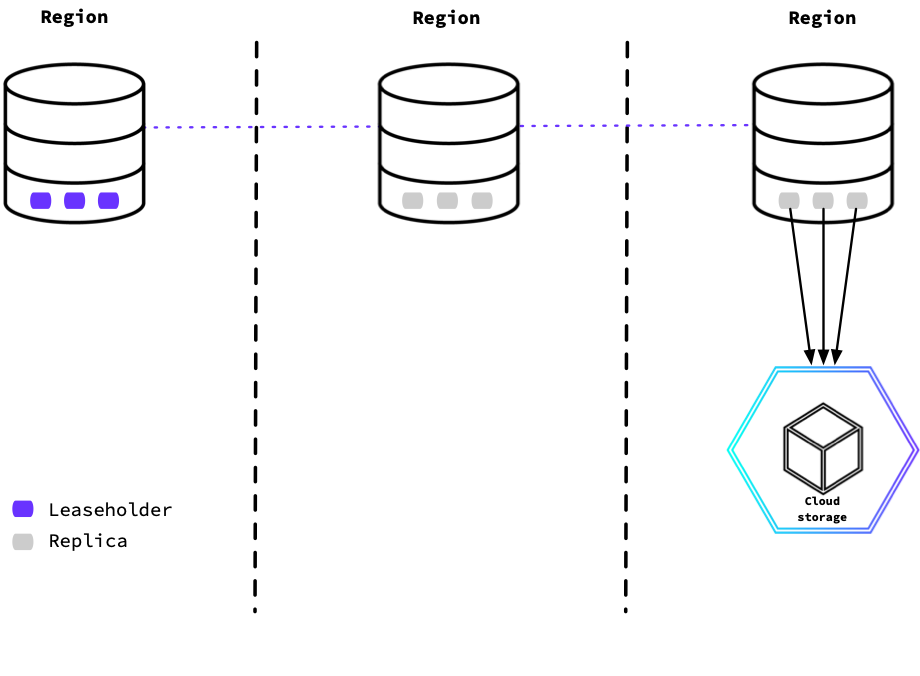
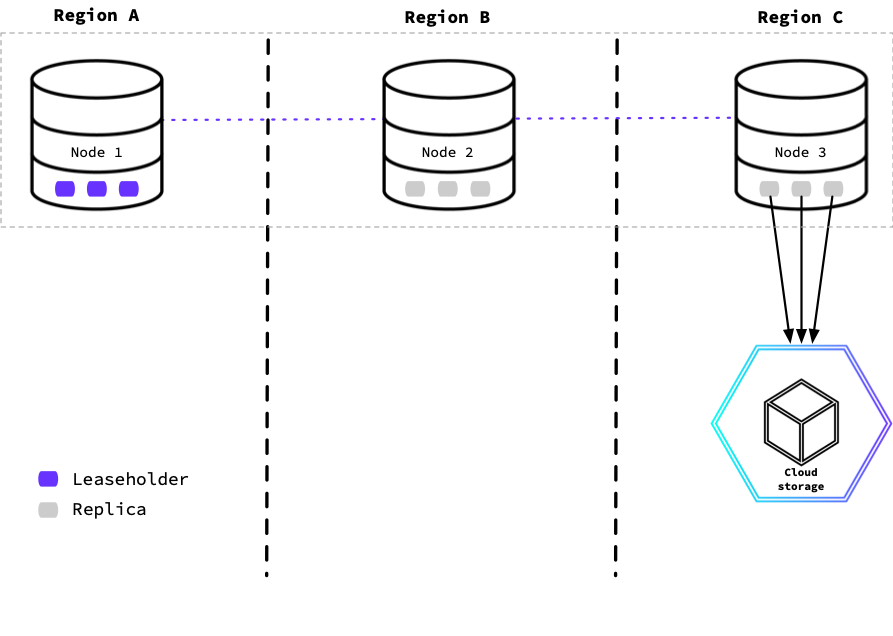
Image update

diff --git a/v23.1/execution-locality-backups.md b/v23.1/execution-locality-backups.md
@@ -53,11 +53,13 @@ This section outlines some possible use cases for `EXECUTION LOCALITY` option.
 
 In certain cases, a cluster could be restricted by network rules across regions (or another locality requirement) for security purposes. This means that only nodes within the same region as the backup [cloud storage](use-cloud-storage.html) location can access the storage bucket. With `EXECUTION LOCALITY`, you can set up the backup to pin execution of the job to only the nodes with access to the bucket.
 
-The following diagram shows a CockroachDB cluster where each of the nodes can communicate with each other through a specific port, but any other network traffic is blocked. Leaseholders in regions that do not match the cloud storage cannot communicate with the storage to [export backup data](backup-architecture.html#export-phase).
+The following diagram shows a CockroachDB cluster where each of the nodes can communicate with each other through a specific port, but any other network traffic between regions is blocked. Leaseholders in regions that do not match the cloud storage region (Node 2) cannot access the storage to [export backup data](backup-architecture.html#export-phase). 
+
+Instead, Node 3's locality matches a backup job created with `EXECUTION LOCALITY`. Leaseholders and replicas within that locality designation holding the row data to back up will begin reading and exporting to cloud storage.
 
 <img src="{{ 'images/v23.1/network-restriction.png' | relative_url }}" alt="Using execution locality when there is a network restriction between locality requirements" style="border:0px solid #eee;max-width:100%" />
 
-To execute the backup from only the region with access to cloud storage, you specify locality filters that a node must match in order to take part in the backup job's execution.
+To execute the backup from only the region with access to cloud storage, you can specify [locality filters](cockroach-start.html#locality) that a node must match to take part in the backup job's execution.
 
 For example, you can pin the execution of the backup job to `us-west-1`: 
 
@@ -66,15 +68,20 @@ For example, you can pin the execution of the backup job to `us-west-1`:
 BACKUP DATABASE {database} INTO 'external://backup_storage_uswest' WITH EXECUTION LOCALITY = 'region=us-west-1';
 ~~~
 
-See the [`BACKUP`](backup.html) page for further detail on parameters and options. 
+See the [`BACKUP`](backup.html) page for further detail on other parameters and options. 
 
 ### Create a non-primary region for backup jobs
 
-When your [multi-region](multiregion-overview.html) cluster is running a frequent full backup and incremental backup schedule, it is necessary to balance the [backup schedule](create-schedule-for-backup.html) as well as the impact backup jobs may have on a cluster running data-intensive applications. One solution is to use node locality to section off part of the cluster, which will run backups, to minimize the impact running jobs have one the cluster.
+When your [multi-region](multiregion-overview.html) cluster is running a frequent full backup and incremental backup schedule, it is necessary to balance the [backup schedule](create-schedule-for-backup.html) as well as the impact backup jobs may have on a cluster running data-intensive applications. One solution is to use node locality to section off part of the cluster, which will run backups, to minimize the impact running jobs have on the cluster.
 
 This diagram shows a CockroachDB cluster in three regions. The node used to run the backup job was configured with [non-voting replicas](architecture/replication-layer.html#non-voting-replicas) to provide low-latency reads. The node(s) in this region will complete the backup job coordination and data export to cloud storage.
 
 <img src="{{ 'images/v23.1/background-work.png' | relative_url }}" alt="Using execution locality to create a non-primary region for backup jobs" style="border:0px solid #eee;max-width:100%" />
+
+For detail on configuring a cluster as per the example, see:
+
+- The [`--locality`](cockroach-start.html#locality) flag to specify the locality tiers that describe the location of a node.
+- The `num_voters` and `voter_constraints` variables on the [Configure Replication Zones](configure-replication-zones.html#num_voters) page to configure non-voting replicas via zone configurations.
 
 With nodes in a specific region containing non-voting replicas, you can define the locality requirement for the nodes when creating the backup job:
 
@@ -82,11 +89,6 @@ With nodes in a specific region containing non-voting replicas, you can define t
 ~~~ sql
 BACKUP DATABASE {database} INTO 'external://backup_storage' WITH EXECUTION LOCALITY = 'region={region},dc={datacenter}';
 ~~~
-
-For detail on configuring a cluster as per the example, see:
-
-- The [`--locality`](cockroach-start.html#locality) flag to specify the locality tiers that describe the location of a node.
-- The `num_voters` and `voter_constraints` variables on the [Configure Replication Zones](configure-replication-zones.html#num_voters) page to configure non-voting replicas via zone configurations.
 
 ## See also
 

diff --git a/_includes/v23.1/backups/backup-options-for-schedules.md b/_includes/v23.1/backups/backup-options-for-schedules.md
@@ -3,6 +3,6 @@
 `revision_history`<a name="with-revision-history"></a>           | [`BOOL`](bool.html) / None                     | Create a backup with full [revision history](take-backups-with-revision-history-and-restore-from-a-point-in-time.html), which records every change made to the cluster within the garbage collection period leading up to and including the given timestamp.<br><br>You can specify a backup with revision history without any value e.g., `WITH revision_history`. Or, you can explicitly define `WITH revision_history = 'true' / 'false'`. The `revision_history` option defaults to `true` when used with [`BACKUP`](backup.html) or `CREATE SCHEDULE FOR BACKUP`. A value is **required** when using `ALTER BACKUP SCHEDULE` to {% if page.name == "alter-backup-schedule.md" %} [apply different options to scheduled backups](#apply-different-options-to-scheduled-backups). {% else %} [alter a backup schedule](alter-backup-schedule.html). {% endif %}
 `encryption_passphrase`<a name="with-encryption-passphrase"></a> | [`STRING`](string.html) | The passphrase used to [encrypt the files](take-and-restore-encrypted-backups.html) (`BACKUP` manifest and data files) that the `BACKUP` statement generates. This same passphrase is needed to decrypt the file when it is used to [restore](take-and-restore-encrypted-backups.html) and to list the contents of the backup when using [`SHOW BACKUP`](show-backup.html). There is no practical limit on the length of the passphrase.
 `detached`<a name="detached"></a>                           | [`BOOL`](bool.html) / None                   | **Note:** Backups running on a schedule have the `detached` option applied implicitly. Therefore, you cannot modify this option for scheduled backups. <br><br>When a backup runs in `detached` mode, it will execute asynchronously. The job ID will be returned after the backup [job creation](backup-architecture.html#job-creation-phase) completes. Note that with `detached` specified, further job information and the job completion status will not be returned. For more on the differences between the returned job data, see the [example](backup.html#run-a-backup-asynchronously). To check on the job status, use the [`SHOW JOBS`](show-jobs.html) statement.
-<span class="version-tag">New in v23.1:</span> `EXECUTION LOCALITY` | Key-value pairs | Restricts the execution of the backup to nodes that match the defined locality filter requirements, e.g., `WITH EXECUTION LOCALITY = 'region=us-west-1a,cloud=aws'`. <br><br>See [Restrict nodes executing the backup job by locality](backup.html#restrict-nodes-executing-a-backup-job-by-locality) for usage and reference detail.
+<span class="version-tag">New in v23.1:</span> `EXECUTION LOCALITY` | Key-value pairs | Restricts the execution of the backup to nodes that match the defined locality filter requirements, e.g., `WITH EXECUTION LOCALITY = 'region=us-west-1a,cloud=aws'`. <br><br>See [Execution Locality Backups](execution-locality-backups.html) for usage and reference detail.
 `kms`                                                            | [`STRING`](string.html) |  The [key management service (KMS) URI](take-and-restore-encrypted-backups.html#uri-formats) (or a [comma-separated list of URIs](take-and-restore-encrypted-backups.html#take-a-backup-with-multi-region-encryption)) used to encrypt the files (`BACKUP` manifest and data files) that the `BACKUP` statement generates. This same KMS URI is needed to decrypt the file when it is used to [restore](take-and-restore-encrypted-backups.html#restore-from-an-encrypted-amazon-s3-backup) and to list the contents of the backup when using [`SHOW BACKUP`](show-backup.html). <br/><br/>AWS KMS, Azure KMS, and Google Cloud KMS are supported.
 `incremental_location`<a name="incr-location"></a> | [`STRING`](string.html) | Create an incremental backup in a different location than the default incremental backup location. <br><br>`WITH incremental_location = 'explicit_incrementals_URI'`<br><br>See [Incremental backups with explicitly specified destinations](take-full-and-incremental-backups.html#incremental-backups-with-explicitly-specified-destinations) for usage.

diff --git a/_includes/v23.1/backups/backup-options.md b/_includes/v23.1/backups/backup-options.md
@@ -3,6 +3,6 @@
 `revision_history`<a name="with-revision-history"></a>           | [`BOOL`](bool.html) / None                     | Create a backup with full [revision history](take-backups-with-revision-history-and-restore-from-a-point-in-time.html), which records every change made to the cluster within the garbage collection period leading up to and including the given timestamp.<br><br>You can specify a backup with revision history without any value e.g., `WITH revision_history`. Or, you can explicitly define `WITH revision_history = 'true' / 'false'`. `revision_history` defaults to `true` when used with `BACKUP` or `CREATE SCHEDULE FOR BACKUP`. A value is **required** when using [`ALTER BACKUP SCHEDULE`](alter-backup-schedule.html).
 `encryption_passphrase`<a name="with-encryption-passphrase"></a> | [`STRING`](string.html) | The passphrase used to [encrypt the files](take-and-restore-encrypted-backups.html) (`BACKUP` manifest and data files) that the `BACKUP` statement generates. This same passphrase is needed to decrypt the file when it is used to [restore](take-and-restore-encrypted-backups.html) and to list the contents of the backup when using [`SHOW BACKUP`](show-backup.html). There is no practical limit on the length of the passphrase.
 `detached`<a name="detached"></a>                           | [`BOOL`](bool.html) / None                   |  When a backup runs in `detached` mode, it will execute asynchronously. The job ID will be returned after the backup [job creation](backup-architecture.html#job-creation-phase) completes. Note that with `detached` specified, further job information and the job completion status will not be returned. For more on the differences between the returned job data, see the [example](backup.html#run-a-backup-asynchronously). To check on the job status, use the [`SHOW JOBS`](show-jobs.html) statement. Backups running on a [schedule](create-schedule-for-backup.html) have the `detached` option applied implicitly.<br><br>To run a backup within a [transaction](transactions.html), use the `detached` option.
-<span class="version-tag">New in v23.1:</span> `EXECUTION LOCALITY` | Key-value pairs | Restricts the execution of the backup to nodes that match the defined locality filter requirements, e.g., `WITH EXECUTION LOCALITY = 'region=us-west-1a,cloud=aws'`. <br><br>See [Restrict nodes executing the backup job by locality](backup.html#restrict-nodes-executing-a-backup-job-by-locality) for usage and reference detail.
+<span class="version-tag">New in v23.1:</span> `EXECUTION LOCALITY` | Key-value pairs | Restricts the execution of the backup to nodes that match the defined locality filter requirements, e.g., `WITH EXECUTION LOCALITY = 'region=us-west-1a,cloud=aws'`. <br><br>See [Execution Locality Backups](execution-locality-backups.html) for usage and reference detail.
 `kms`                                                            | [`STRING`](string.html) |  The [key management service (KMS) URI](take-and-restore-encrypted-backups.html#uri-formats) (or a [comma-separated list of URIs](take-and-restore-encrypted-backups.html#take-a-backup-with-multi-region-encryption)) used to encrypt the files (`BACKUP` manifest and data files) that the `BACKUP` statement generates. This same KMS URI is needed to decrypt the file when it is used to [restore](take-and-restore-encrypted-backups.html#restore-from-an-encrypted-amazon-s3-backup) and to list the contents of the backup when using [`SHOW BACKUP`](show-backup.html). <br/><br/>AWS, Azure, and Google Cloud KMS are supported.
 `incremental_location`<a name="incr-location"></a> | [`STRING`](string.html) | Create an incremental backup in a different location than the default incremental backup location. <br><br>`WITH incremental_location = 'explicit_incrementals_URI'`<br><br>See [Incremental backups with explicitly specified destinations](take-full-and-incremental-backups.html#incremental-backups-with-explicitly-specified-destinations) for usage.

diff --git a/v23.1/backup.md b/v23.1/backup.md
@@ -310,44 +310,6 @@ job_id             |  status   | fraction_completed | rows | index_entries | byt
 (1 row)
 ~~~
 
-### Restrict nodes executing a backup job by locality
-
-
-
- You have network restrictions where only region us-west-1 has access to your storage bucket --> How would you set up your backup
-
-
-
-
-{% include_cached new-in.html version="v23.1" %} Use the `EXECUTION LOCALITY` option to set locality filter requirements that a node must meet in order to take part in executing a backup job. This will pin the [coordination of the backup job](backup-architecture.html#job-creation-phase) and the nodes that process the row data to the defined locality.
-
-When you start or [resume](resume-job.html) a backup with `EXECUTION LOCALITY`, it is necessary to determine the coordinating node for the job. If a node that does not match the locality filter is the first node to claim the job, it will find a node that does match the filter and transfer the execution to it. This can result in a short delay in starting or resuming a backup job that has execution locality requirements. 
-
-Once the coordinating node is determined, it will assign chunks of row data to nodes that are then responsible for reading that row data and backing it up. The coordinator will only assign row data to nodes that match the locality filter. The following will happen in different cases:
-
-- If the [leaseholder](architecture/reads-and-writes-overview.html#architecture-leaseholder) for part of the row data matches the filter, the coordinator will assign it that row data to process. 
-- If the leaseholder does not match the locality filter, the coordinator will select a node from those that match the locality filter with a preference for nodes with localities that are more similar to the leaseholder.
-
-When the coordinator assigns row data to a node matching the locality filter to back up, that node will read from the closest [replica](architecture/reads-and-writes-overview.html#architecture-replica). If the node is the leaseholder, or is itself a replica, it can read from itself. In the scenario where no replicas are available in the region of the assigned node, it may then read from a replica in a different region. As a result, you may want to consider [placing replicas](configure-replication-zones.html), including potentially non-voting replicas that will have less impact on read latency in the locality or region that you plan on pinning for backup job execution.
-
-For an overview of the backup job phases, see the [Backup Architecture](backup-architecture.html) page.
-
-To specify the locality requirements for the coordinating node, run `EXECUTION LOCALITY` with key-value pairs:
-
-{% include_cached copy-clipboard.html %}
-~~~ sql
-BACKUP DATABASE movr INTO 'external://backup_storage' WITH EXECUTION LOCALITY = 'region=us-west-1a,cloud=aws';
-~~~
-
-The key-value pairs represent the locality designations assigned to the [cluster](cockroach-start.html#locality).
-
-When you run `EXECUTION LOCALITY`, consider the following:
-
-- The backup job will fail if no nodes match the locality filter.
-- Selection of the coordinating node that matches the locality filter may noticeably increase the startup latency of the backup job.
-- Even though a backup job has been pinned to a locality, it does not guarantee the job will not read from another locality if there are no replicas in its locality.
-- You can not use `EXECUTION LOCALITY` in a locality-aware backup.
-
 ### Back up with an S3 storage class
 
 To associate your backup objects with a [specific storage class](use-cloud-storage.html#amazon-s3-storage-classes) in your Amazon S3 bucket, use the `S3_STORAGE_CLASS` parameter with the class. For example, the following S3 connection URI specifies the `INTELLIGENT_TIERING` storage class:

diff --git a/v23.1/backup-architecture.md b/v23.1/backup-architecture.md
@@ -59,7 +59,7 @@ Once one of the nodes has claimed the job from the system jobs table, it will ta
 
 To map out the storage location's directory to which the nodes will write the data, the coordinator identifies the [type](backup-and-restore-overview.html#backup-and-restore-product-support) of backup. This determines the name of the new (or edited) directory to store the backup files in. For example, if there is an existing full backup in the target storage location, the upcoming backup will be [incremental](take-full-and-incremental-backups.html#incremental-backups) and therefore append to the full backup after any existing incremental layers discovered in it.
 
-To restrict the execution of the job to nodes meeting particular locality requirements, you can set the `EXECUTION LOCALITY` option. For detail on how this option affects the process of a backup job and an example, see [Restrict nodes executing the backup job by locality](backup.html#restrict-nodes-executing-a-backup-job-by-locality).
+To restrict the execution of the job to nodes meeting particular locality requirements, you can set the `EXECUTION LOCALITY` option. For detail on how this option affects the process of a backup job and an example, see [Execution Locality Backups](execution-locality-backups.html).
 
 For more information on how CockroachDB structures backups in storage, see [Backup collections](take-full-and-incremental-backups.html#backup-collections).
 

diff --git a/_includes/releases/v23.1/v23.1.0-alpha.8.md b/_includes/releases/v23.1/v23.1.0-alpha.8.md
@@ -31,7 +31,7 @@ Release Date: March 27, 2023
 - Added helper text for [`UPDATE`](../v23.1/update.html) to include `FROM <source>`. [#99301][#99301]
 - Added the `default_text_search_config` variable for compatibility with single-argument variants to the following text search functions: `to_tsvector`, `to_tsquery`, `phraseto_tsquery`, and `plainto_tsquery`, which use the value of `default_text_search_config` instead of expecting one to be included as in the two-argument variants. The default value of this setting is `english`. [#99323][#99323]
 - Added the `ts_rank` function for ranking text search query results. [#99323][#99323]
-- Renamed the `coordinator_locality` option in `BACKUP` to [`EXECUTION LOCALITY`](../v23.1/backup.html#restrict-nodes-executing-a-backup-job-by-locality). This options allows the user to control the nodes involved in the execution of a backup job, including the processing of row data and job coordination. [#99176][#99176]
+- Renamed the `coordinator_locality` option in `BACKUP` to [`EXECUTION LOCALITY`](../v23.1/execution-locality-backups.html). This options allows the user to control the nodes involved in the execution of a backup job, including the processing of row data and job coordination. [#99176][#99176]
 
 <h3 id="v23-1-0-alpha-8-operational-changes">Operational changes</h3>
 

diff --git a/v23.1/backup-and-restore-overview.md b/v23.1/backup-and-restore-overview.md
@@ -38,7 +38,7 @@ Backup / Restore  | Description  | Product Support
 
 ### Additional backup and restore features
 
-- [Restrict nodes executing a backup job by locality](backup.html#restrict-nodes-executing-a-backup-job-by-locality)
+- [Execution Locality Backups](execution-locality-backups.html)
 - [Incremental backups with explicitly specified destinations](take-full-and-incremental-backups.html#incremental-backups-with-explicitly-specified-destinations)
 - [Exclude a table's data from backups](take-full-and-incremental-backups.html#exclude-a-tables-data-from-backups)
 
